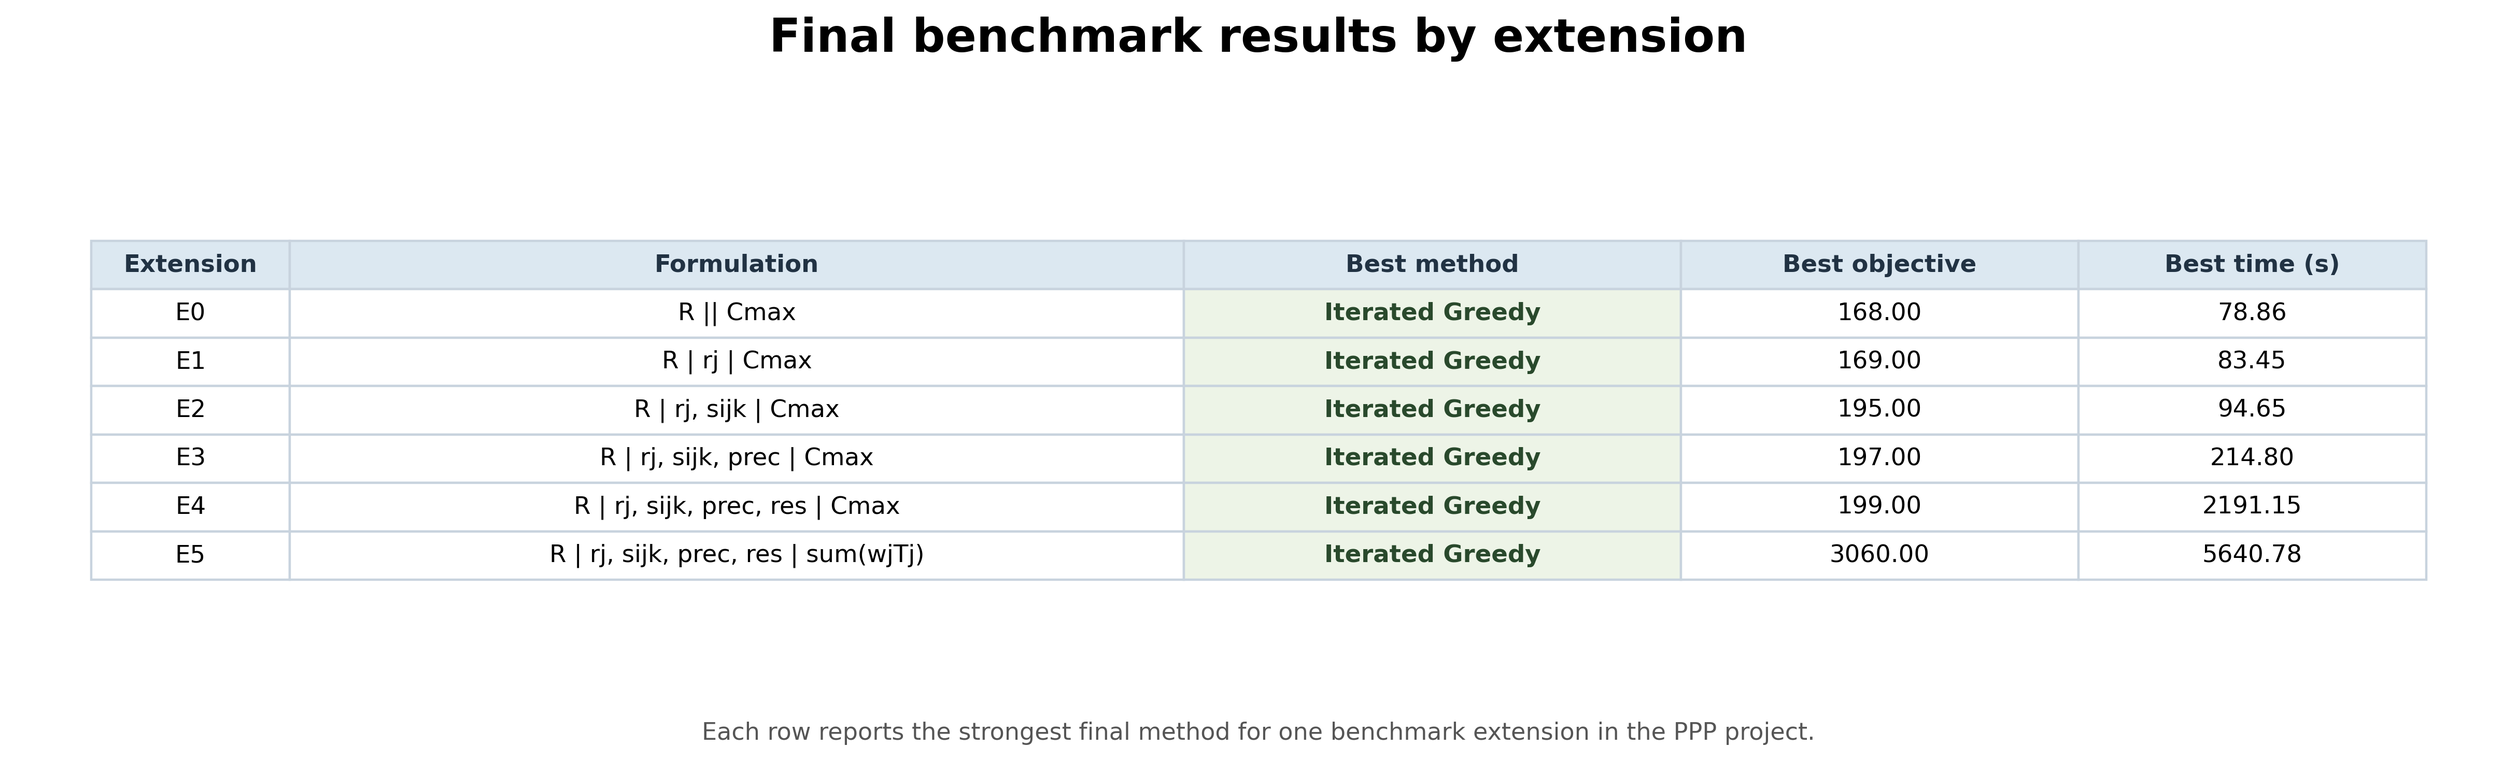
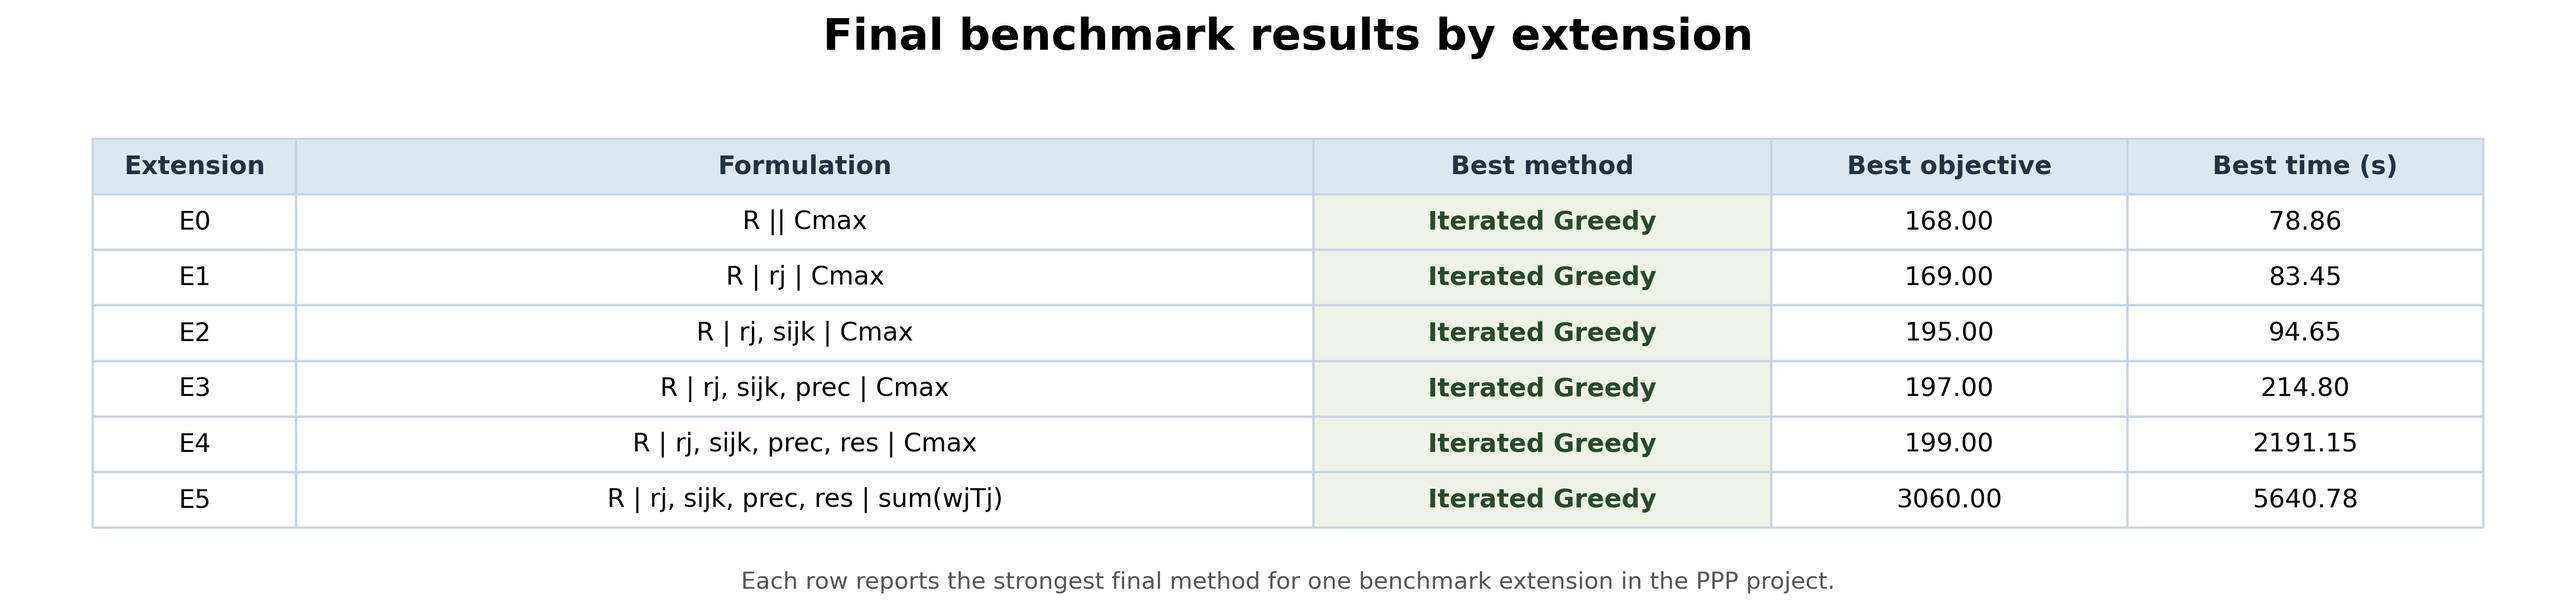
Refine PPP figures for cleaner public presentation

Changed region(s): [[0.0311, 0.2141, 0.964, 0.887], [0.2799, 0.0306, 0.7152, 0.0918], [0.2799, 0.9176, 0.7152, 0.9788]]

diff --git a/src/plot_extension_results.py b/src/plot_extension_results.py
@@ -37,8 +37,9 @@ def main() -> None:
     fig, axes = plt.subplots(
         2,
         1,
-        figsize=(12.5, 9.2),
-        constrained_layout=True,
+        figsize=(12.8, 8.6),
+        constrained_layout=False,
+        gridspec_kw={"hspace": 0.38},
         facecolor="white",
     )
 
@@ -66,13 +67,13 @@ def main() -> None:
             alpha=0.94,
         )
 
-    axes[0].set_title("Objective value by benchmark extension", fontsize=15, weight="bold", pad=10)
+    axes[0].set_title("Objective value by benchmark extension", fontsize=15, weight="bold", pad=12)
     axes[0].set_ylabel("Best objective", fontsize=11)
     axes[0].set_xticks(x, extension_labels)
     axes[0].grid(axis="y", linestyle="--", alpha=0.25)
     axes[0].set_axisbelow(True)
 
-    axes[1].set_title("Runtime by benchmark extension", fontsize=15, weight="bold", pad=10)
+    axes[1].set_title("Runtime by benchmark extension", fontsize=15, weight="bold", pad=12)
     axes[1].set_ylabel("Runtime (s)", fontsize=11)
     axes[1].set_xticks(x, extension_labels)
     axes[1].set_xlabel("PPP extension", fontsize=11)
@@ -81,13 +82,14 @@ def main() -> None:
     axes[1].set_yscale("log")
 
     handles, labels = axes[0].get_legend_handles_labels()
-    fig.legend(handles, labels, loc="upper center", ncol=3, frameon=False, bbox_to_anchor=(0.5, 1.02))
+    fig.legend(handles, labels, loc="upper center", ncol=3, frameon=False, bbox_to_anchor=(0.5, 0.935))
     fig.suptitle(
         "Production scheduling benchmark: method comparison across six extensions",
         fontsize=18,
         weight="bold",
-        y=1.05,
+        y=0.985,
     )
+    fig.subplots_adjust(left=0.08, right=0.985, top=0.87, bottom=0.08)
 
     OUTPUT_PATH.parent.mkdir(parents=True, exist_ok=True)
     fig.savefig(OUTPUT_PATH, dpi=220, bbox_inches="tight")

diff --git a/src/build_final_results_table.py b/src/build_final_results_table.py
@@ -20,7 +20,7 @@ ROWS = [
 
 
 def main() -> None:
-    fig, ax = plt.subplots(figsize=(15.6, 4.9), facecolor="white")
+    fig, ax = plt.subplots(figsize=(15.8, 3.9), facecolor="white")
     ax.axis("off")
 
     col_labels = ["Extension", "Formulation", "Best method", "Best objective", "Best time (s)"]
@@ -29,12 +29,12 @@ def main() -> None:
         colLabels=col_labels,
         cellLoc="center",
         loc="center",
-        colWidths=[0.08, 0.36, 0.20, 0.16, 0.14],
+        colWidths=[0.08, 0.40, 0.18, 0.14, 0.14],
     )
 
     table.auto_set_font_size(False)
-    table.set_fontsize(10.5)
-    table.scale(1, 1.9)
+    table.set_fontsize(11.1)
+    table.scale(1, 2.15)
 
     header_color = "#DCE8F1"
     accent_color = "#EDF4E7"
@@ -52,16 +52,16 @@ def main() -> None:
             else:
                 cell.set_facecolor("white")
 
-    fig.suptitle("Final benchmark results by extension", fontsize=20, fontweight="bold", y=0.96)
+    fig.suptitle("Final benchmark results by extension", fontsize=19, fontweight="bold", y=0.93)
     fig.text(
         0.5,
-        0.07,
+        0.045,
         "Each row reports the strongest final method for one benchmark extension in the PPP project.",
         ha="center",
-        fontsize=10.4,
+        fontsize=10.2,
         color="#555555",
     )
-    fig.subplots_adjust(left=0.02, right=0.98, top=0.83, bottom=0.12)
+    fig.subplots_adjust(left=0.015, right=0.985, top=0.80, bottom=0.08)
     out_path = FIGURES / "final_results_table.png"
     fig.savefig(out_path, dpi=320, bbox_inches="tight")
     plt.close(fig)
